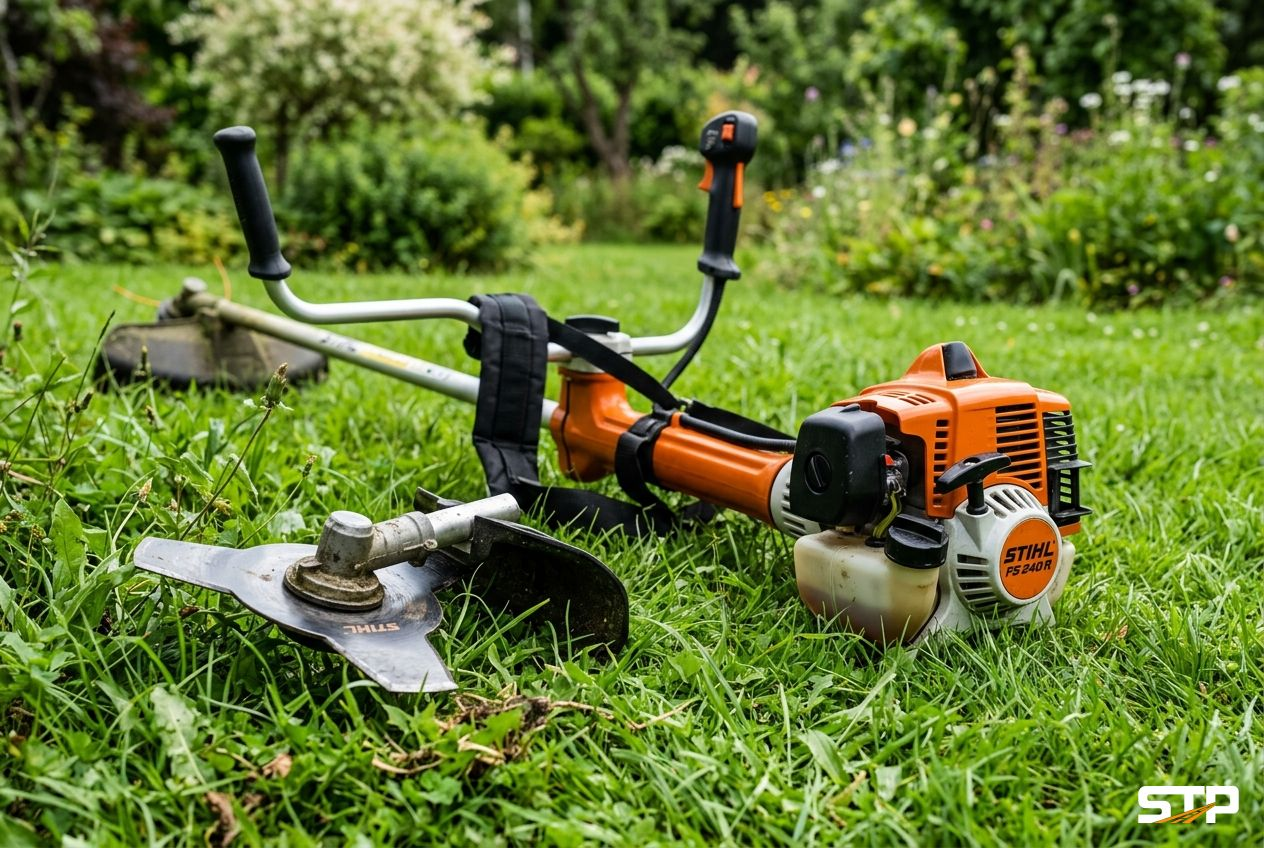
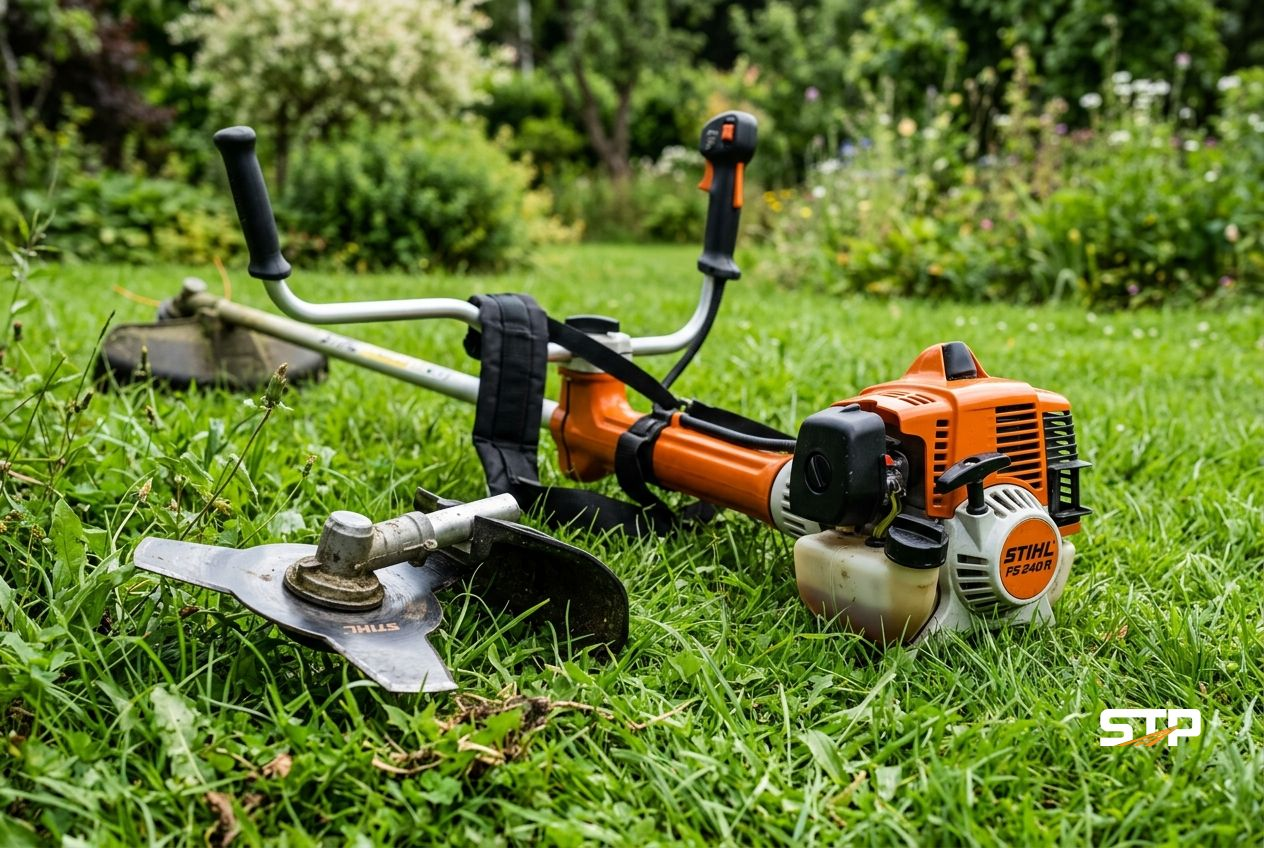
feat: convert LME landing page to dark mode + add active section nav tracking
- LmeLayout.astro: dark backgrounds (charcoal/slate), white text, IntersectionObserver
  for scroll-based active nav link highlighting
- index.astro: all sections converted to dark mode with teal accents
- StickyMobileBar.astro: dark mode styling
- Removed redundant scroll listener and unused icon paths

Changed region(s): [[0.8948, 0.9198, 0.9873, 0.9811], [0.8639, 0.8278, 0.9565, 0.8892]]

diff --git a/white_logo_everywhere.js b/white_logo_everywhere.js
@@ -4,54 +4,47 @@ import { finished } from 'stream/promises';
 import sharp from 'sharp';
 
 const USER_AGENT = 'Mozilla/5.0 (Windows NT 10.0; Win64; x64) AppleWebKit/537.36 (KHTML, like Gecko) Chrome/120.0.0.0 Safari/537.36';
+const logoSvgPath = 'apps/stp/public/logo-white.svg';
 
 const tasks = [
   {
     name: 'dropside-truck.jpg',
     type: 'copy',
-    src: 'C:\\Users\\Accounts Manager\\.gemini\\antigravity-cli\\brain\\2a3ddb02-cfb0-4fdc-8cf4-50da31a73b48\\dropside_truck_1782805834358.jpg',
-    logoType: 'white'
+    src: 'C:\\Users\\Accounts Manager\\.gemini\\antigravity-cli\\brain\\2a3ddb02-cfb0-4fdc-8cf4-50da31a73b48\\dropside_truck_1782805834358.jpg'
   },
   {
     name: 'septic-tank-truck.jpg',
     type: 'copy',
-    src: 'C:\\Users\\Accounts Manager\\.gemini\\antigravity-cli\\brain\\2a3ddb02-cfb0-4fdc-8cf4-50da31a73b48\\septic_tank_truck_1782805848464.jpg',
-    logoType: 'white'
+    src: 'C:\\Users\\Accounts Manager\\.gemini\\antigravity-cli\\brain\\2a3ddb02-cfb0-4fdc-8cf4-50da31a73b48\\septic_tank_truck_1782805848464.jpg'
   },
   {
     name: 'ride-on-mower.jpg',
     type: 'copy',
-    src: 'C:\\Users\\Accounts Manager\\.gemini\\antigravity-cli\\brain\\2a3ddb02-cfb0-4fdc-8cf4-50da31a73b48\\ride_on_mower_1782805904732.jpg',
-    logoType: 'white'
+    src: 'C:\\Users\\Accounts Manager\\.gemini\\antigravity-cli\\brain\\2a3ddb02-cfb0-4fdc-8cf4-50da31a73b48\\ride_on_mower_1782805904732.jpg'
   },
   {
     name: 'brush-cutter.jpg',
     type: 'copy',
-    src: 'C:\\Users\\Accounts Manager\\.gemini\\antigravity-cli\\brain\\2a3ddb02-cfb0-4fdc-8cf4-50da31a73b48\\brush_cutter_1782805915982.jpg',
-    logoType: 'white'
+    src: 'C:\\Users\\Accounts Manager\\.gemini\\antigravity-cli\\brain\\2a3ddb02-cfb0-4fdc-8cf4-50da31a73b48\\brush_cutter_1782805915982.jpg'
   },
   {
     name: 'chainsaw.jpg',
     type: 'download',
-    src: 'https://upload.wikimedia.org/wikipedia/commons/3/33/Stihl_MS_192C_chainsaw_20190326.jpg',
-    logoType: 'dark'
+    src: 'https://upload.wikimedia.org/wikipedia/commons/3/33/Stihl_MS_192C_chainsaw_20190326.jpg'
   },
   {
     name: 'tree-pruner.jpg',
     type: 'download',
-    src: 'https://www.coopsuperstores.ie/cdn/shop/files/1971168_2.jpg?v=1728505207&width=1500',
-    logoType: 'dark'
+    src: 'https://www.coopsuperstores.ie/cdn/shop/files/1971168_2.jpg?v=1728505207&width=1500'
   },
   {
     name: 'utility-tractor.jpg',
     type: 'download',
-    src: 'https://www.rdoequipment.com.au/wp-content/uploads/2023/08/Howard-Nugget-NUG150-Tractor-Slasher-2.jpg',
-    logoType: 'dark'
+    src: 'https://www.rdoequipment.com.au/wp-content/uploads/2023/08/Howard-Nugget-NUG150-Tractor-Slasher-2.jpg'
   },
   {
     name: 'bobcat.jpg',
-    type: 'git-restore',
-    logoType: 'white'
+    type: 'git-restore'
   }
 ];
 
@@ -64,9 +57,8 @@ async function download(url, outputPath) {
   console.log(`Downloaded ${outputPath}`);
 }
 
-async function applyWatermark(imagePath, logoType) {
-  console.log(`Applying watermark to ${imagePath}...`);
-  const logoSvgPath = logoType === 'dark' ? 'apps/stp/public/logo-dark.svg' : 'apps/stp/public/logo-white.svg';
+async function applyWatermark(imagePath) {
+  console.log(`Applying white watermark to ${imagePath}...`);
   const logoSvgContent = fs.readFileSync(logoSvgPath, 'utf8');
   
   const img = sharp(imagePath);
@@ -85,7 +77,7 @@ async function applyWatermark(imagePath, logoType) {
     `<svg width="${logoWidth}" height="${logoHeight}" `
   );
   
-  // Position higher up (12% padding from bottom, 5% padding from right) to avoid crop
+  // Position with 12% bottom padding, 5% right padding
   const paddingX = Math.round(imgWidth * 0.05);
   const paddingY = Math.round(imgHeight * 0.12);
   const left = imgWidth - logoWidth - paddingX;
@@ -130,7 +122,7 @@ async function run() {
     
     // Step 2: Apply watermark
     try {
-      await applyWatermark(outputPath, task.logoType);
+      await applyWatermark(outputPath);
     } catch (e) {
       console.error(`Error watermarking ${task.name}:`, e);
     }
